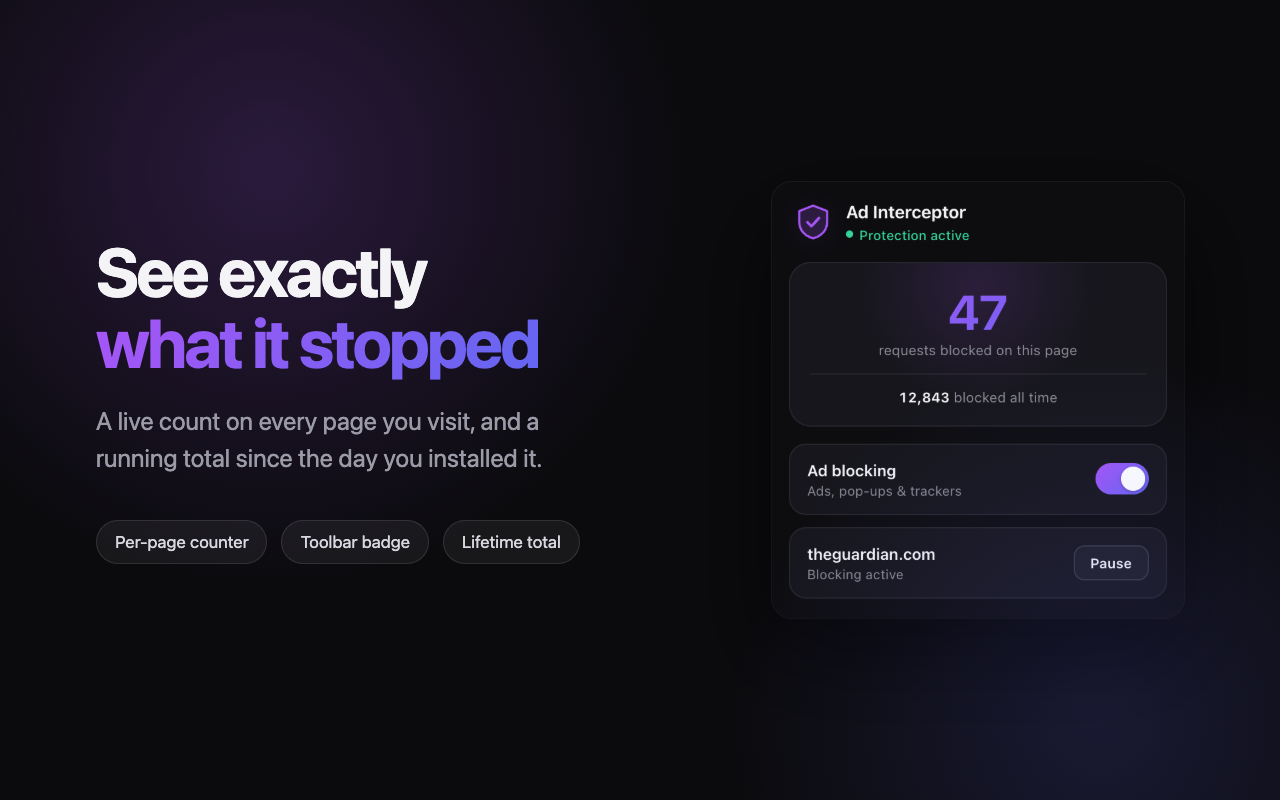
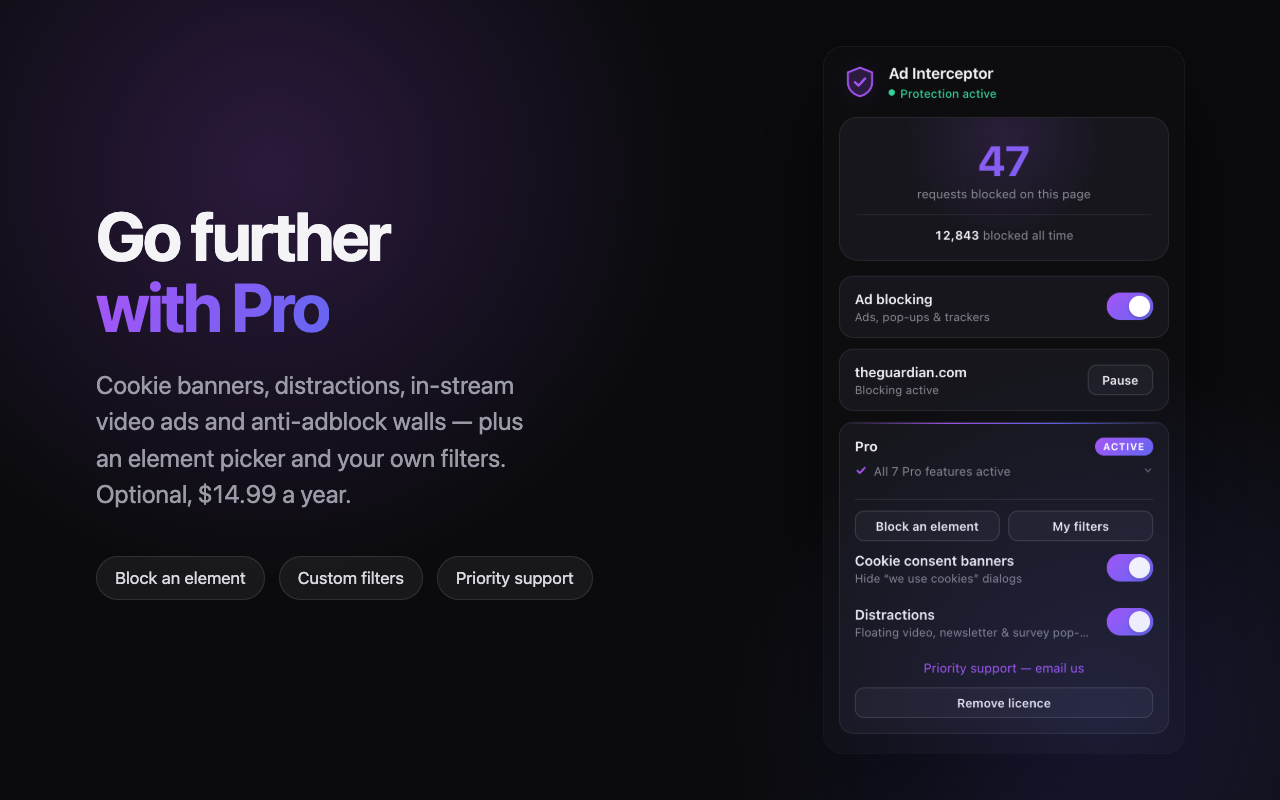
docs(store): v3.3 listing — Pro section, honest privacy copy, new screenshots
The live listing said "The extension makes no network requests at all" and
slide 4 said "No server to phone home to". Both become false the moment the
Pro build ships, since license.js sends the licence key daily. Rewritten to
say what is true: the free version makes no requests; Pro sends only the key.

Description: the held Pro block is restored and rewritten to match what v3.3
actually ships (cookies, distractions, picker, custom filters, priority
support), with the $14.99/yr price and PayPal named. Counts refreshed to
109,346 / 13,636.

Screenshots: slide 2 (a duplicate of slide 1's render) becomes a Pro slide.
shippedCounts() summed every ruleset in manifest.json, which in a Pro build
folds the Pro rules into the free "blocking rules" figure; it now reads the
free counts from filters/counts.json, the same source as the description.

store-copy.mjs hardcoded "Data collection NONE — PRO_ENABLED is false". It now
reads the flag, prints the Pro dashboard answers, and refuses to run if the
description and the build disagree about Pro.

diff --git a/store-listing/description.md b/store-listing/description.md
@@ -67,7 +67,7 @@ Two constraints to preserve if this is ever edited:
      Nothing outside them is: the rest of this file is internal notes.
      Do not hand-copy it — run `npm run store:copy` and paste the file it
      writes, so the two can never drift. -->
-Block ads, pop-ups, pop-unders and the trackers behind them, on every site you visit. Ad Interceptor is a free ad blocker with 106,787 blocking rules — no account, no sign-up, and nothing collected about you.
+Block ads, pop-ups, pop-unders and the trackers behind them, on every site you visit. Ad Interceptor is a free ad blocker with 109,346 blocking rules — no account, no sign-up, and nothing collected about you.
 
 ★ WHAT IT BLOCKS
 
@@ -77,7 +77,7 @@ Block ads, pop-ups, pop-unders and the trackers behind them, on every site you v
 • Ad trackers and analytics scripts
 • The empty gaps a blocked ad leaves behind
 
-★ 106,787 BLOCKING RULES, EVALUATED ON YOUR MACHINE
+★ 109,346 BLOCKING RULES, EVALUATED ON YOUR MACHINE
 
 Ad Interceptor is built on EasyList and EasyPrivacy — the community-maintained filter lists that serious ad blockers have relied on for years. Every rule ships inside the extension and is evaluated by Chrome itself, using the browser's own blocking engine.
 
@@ -87,18 +87,19 @@ No request is ever sent to us to decide what to block, because there is no "us" 
 
 Network blocking — ad and tracker requests are stopped before they leave your browser. The ad never downloads, so pages load faster and lighter.
 
-Element hiding — 13,635 rules remove the ad-shaped holes left behind, so a blocked page looks like a page, not a page with gaps in it.
+Element hiding — 13,636 rules remove the ad-shaped holes left behind, so a blocked page looks like a page, not a page with gaps in it.
 
 ★ NO "ACCEPTABLE ADS". EVER.
 
 Some popular ad blockers ship an allowlist that lets certain ads through by default, and are paid by the companies on it. Ad Interceptor has no such programme, no allowlist you have to find and switch off, and no business relationship with any ad network. Aggressive is the default, not an option you opt into.
 
-★ NO ACCOUNT. NO TELEMETRY. NOTHING COLLECTED.
+★ NO ACCOUNT. NO TELEMETRY. NO BROWSING DATA.
 
-• No sign-up, no login, no email address
+• No sign-up, no login, no account to create
 • No analytics and no telemetry of any kind
 • Your browsing history is never collected, transmitted or stored
-• The extension makes no network requests at all
+• The free version makes no network requests at all
+• Pro sends exactly one thing: your licence key, about once a day, to check it is still valid and to fetch filter updates. Never anything about the sites you visit
 
 Full privacy policy: https://ad-interceptor.pages.dev/privacy-policy
 
@@ -114,25 +115,41 @@ A live counter — see how many requests were blocked on this page, and how many
 
 Ad blocking is a moving target and no blocker catches everything. Ads served from the same address as the content itself are the hard case for every extension built on Chrome's blocking engine, including this one. If something gets through, the filter lists are updated constantly and each release picks up the latest rules.
 
+★ AD INTERCEPTOR PRO — OPTIONAL, $14.99 A YEAR
+
+The free version is not a trial and is not crippled. The full 109,346-rule filter set stays free, permanently. Pro adds the maintenance-heavy extras, for people who want the harder cases handled too:
+
+• Cookie-consent banners — the "accept cookies" pop-ups removed, using the EasyList Cookie List
+• Distractions — newsletter pop-ups, social widgets and other page clutter, using Fanboy's Annoyance List
+• In-stream video ads — removed from the player on major video platforms, not just hidden
+• Anti-adblock walls — the "please disable your ad blocker" overlays
+• Element picker — click anything on a page to hide it for good
+• Custom filters — write and manage your own blocking rules
+• Daily filter updates — new rules without waiting for an extension update
+• Priority support by email
+
+Cookie and distraction blocking can each be switched off on their own. Pro is activated with a licence key — still no account. Payment is handled by PayPal; the subscription renews yearly and can be cancelled at any time.
+
 ★ AVAILABLE IN 20 LANGUAGES
 
 English, Spanish, Portuguese, German, French, Italian, Dutch, Polish, Russian, Ukrainian, Turkish, Arabic, Hindi, Indonesian, Vietnamese, Thai, Japanese, Korean, Simplified Chinese and Traditional Chinese.
 
 ★ OPEN ABOUT WHAT IT IS
 
-Ad Interceptor is an independent browser extension. It is not affiliated with Google, Chrome, or any ad network it blocks. Filter lists are used under the Creative Commons Attribution-ShareAlike 3.0 licence and credited in the extension.
+Ad Interceptor is an independent browser extension. It is not affiliated with Google, Chrome, or any ad network it blocks. Filter lists are used under their Creative Commons licences and credited in the extension.
 
 Questions or a site that isn't blocking properly? thenightwatchcaptain@gmail.com
 <!-- PASTE:END -->
 
 ---
 
-## ⏸ HOLD — paste this back when Pro ships
+## ✅ RESTORED in v3.3 (2026-09-22) — kept below as the v3.0-era draft
 
-Not part of the v3.0 listing. `config.js` has `PRO_ENABLED = false`, so the
-shipped package contains no Pro code and describing Pro would be advertising
-something the extension cannot do. Restore this block in the same release that
-flips the flag.
+The Pro section now lives inside the paste markers above, rewritten to match
+what v3.3 actually ships (cookies, distractions, picker, custom filters,
+priority support were added after this draft). If a future release turns
+`PRO_ENABLED` off again, the Pro section AND the "Pro sends exactly one thing"
+privacy bullet must come out together, in the same release.
 
 **Ad Interceptor Pro**
 
